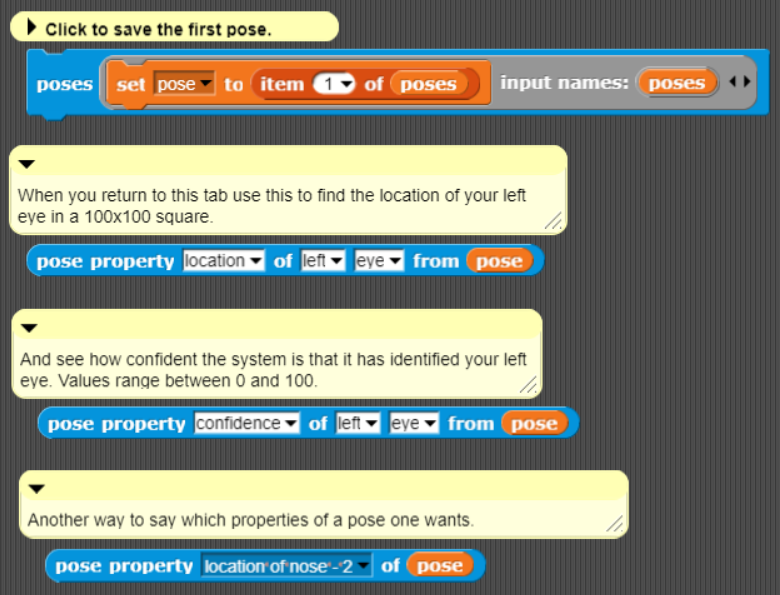
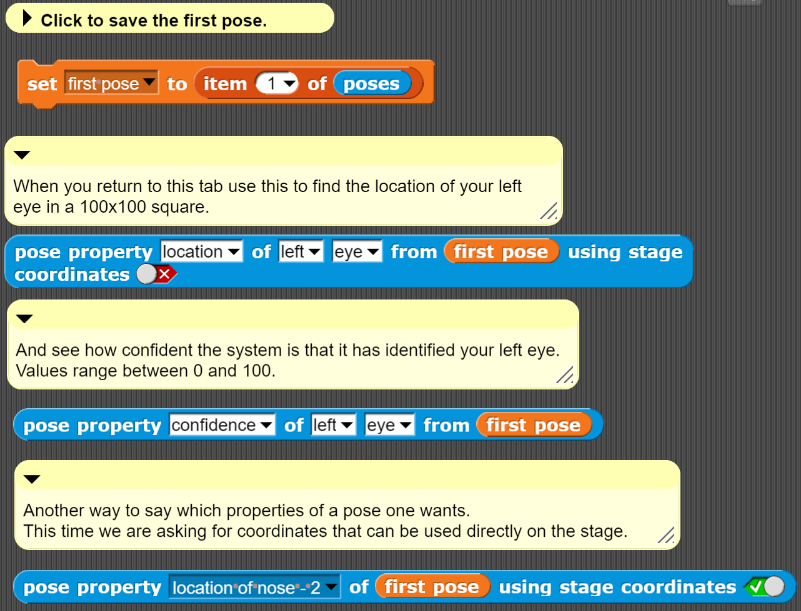
Posenet example and description in chapter 4 updated

diff --git a/AI-Teacher-Guide/chapter-4.html b/AI-Teacher-Guide/chapter-4.html
@@ -331,16 +331,16 @@ Many are familiar with how pose detection can be embedded in video games via
 What is so impressive about Posenet is that it works in the browser without any special software or hardware (other than a webcam).
 </p>
 <p class="instructions">
-The <span class="block-name">poses</span> block passes a list of poses to the blocks provided.
+The <span class="block-name">poses</span> block reports a list of poses.
 One pose for each person in front of the camera.
-The system can be configured on the "poses" tab to be optimised for scenes with only one person.
+The system can be configured on the "poses" tab to be optimised for scenes with more than one person.
 Tradeoffs between speed and accuracy can also be made.
 The "poses" tab is also a good place to explore pose detection.
 There are two kinds of <span class="block-name">pose property</span> blocks that can fetch information for a <i>pose</i>.
 They both can specify that one wants the confidence the system has that it has correctly identified a particular body part
 (values between 0 and 100).
-Or that the location of the body part is desired which is reported as a list of the x and y coordinates
-(again values between 0 and 100).
+Or that the location of the body part is desired which is reported as a list of the x and y coordinates.
+Depending upon the value of the flag the location is reported either in as values between 0 and 100 or as coordinates of the stage.
 </p>
 <figure class = "snap-iframe"
         id = "pose"
